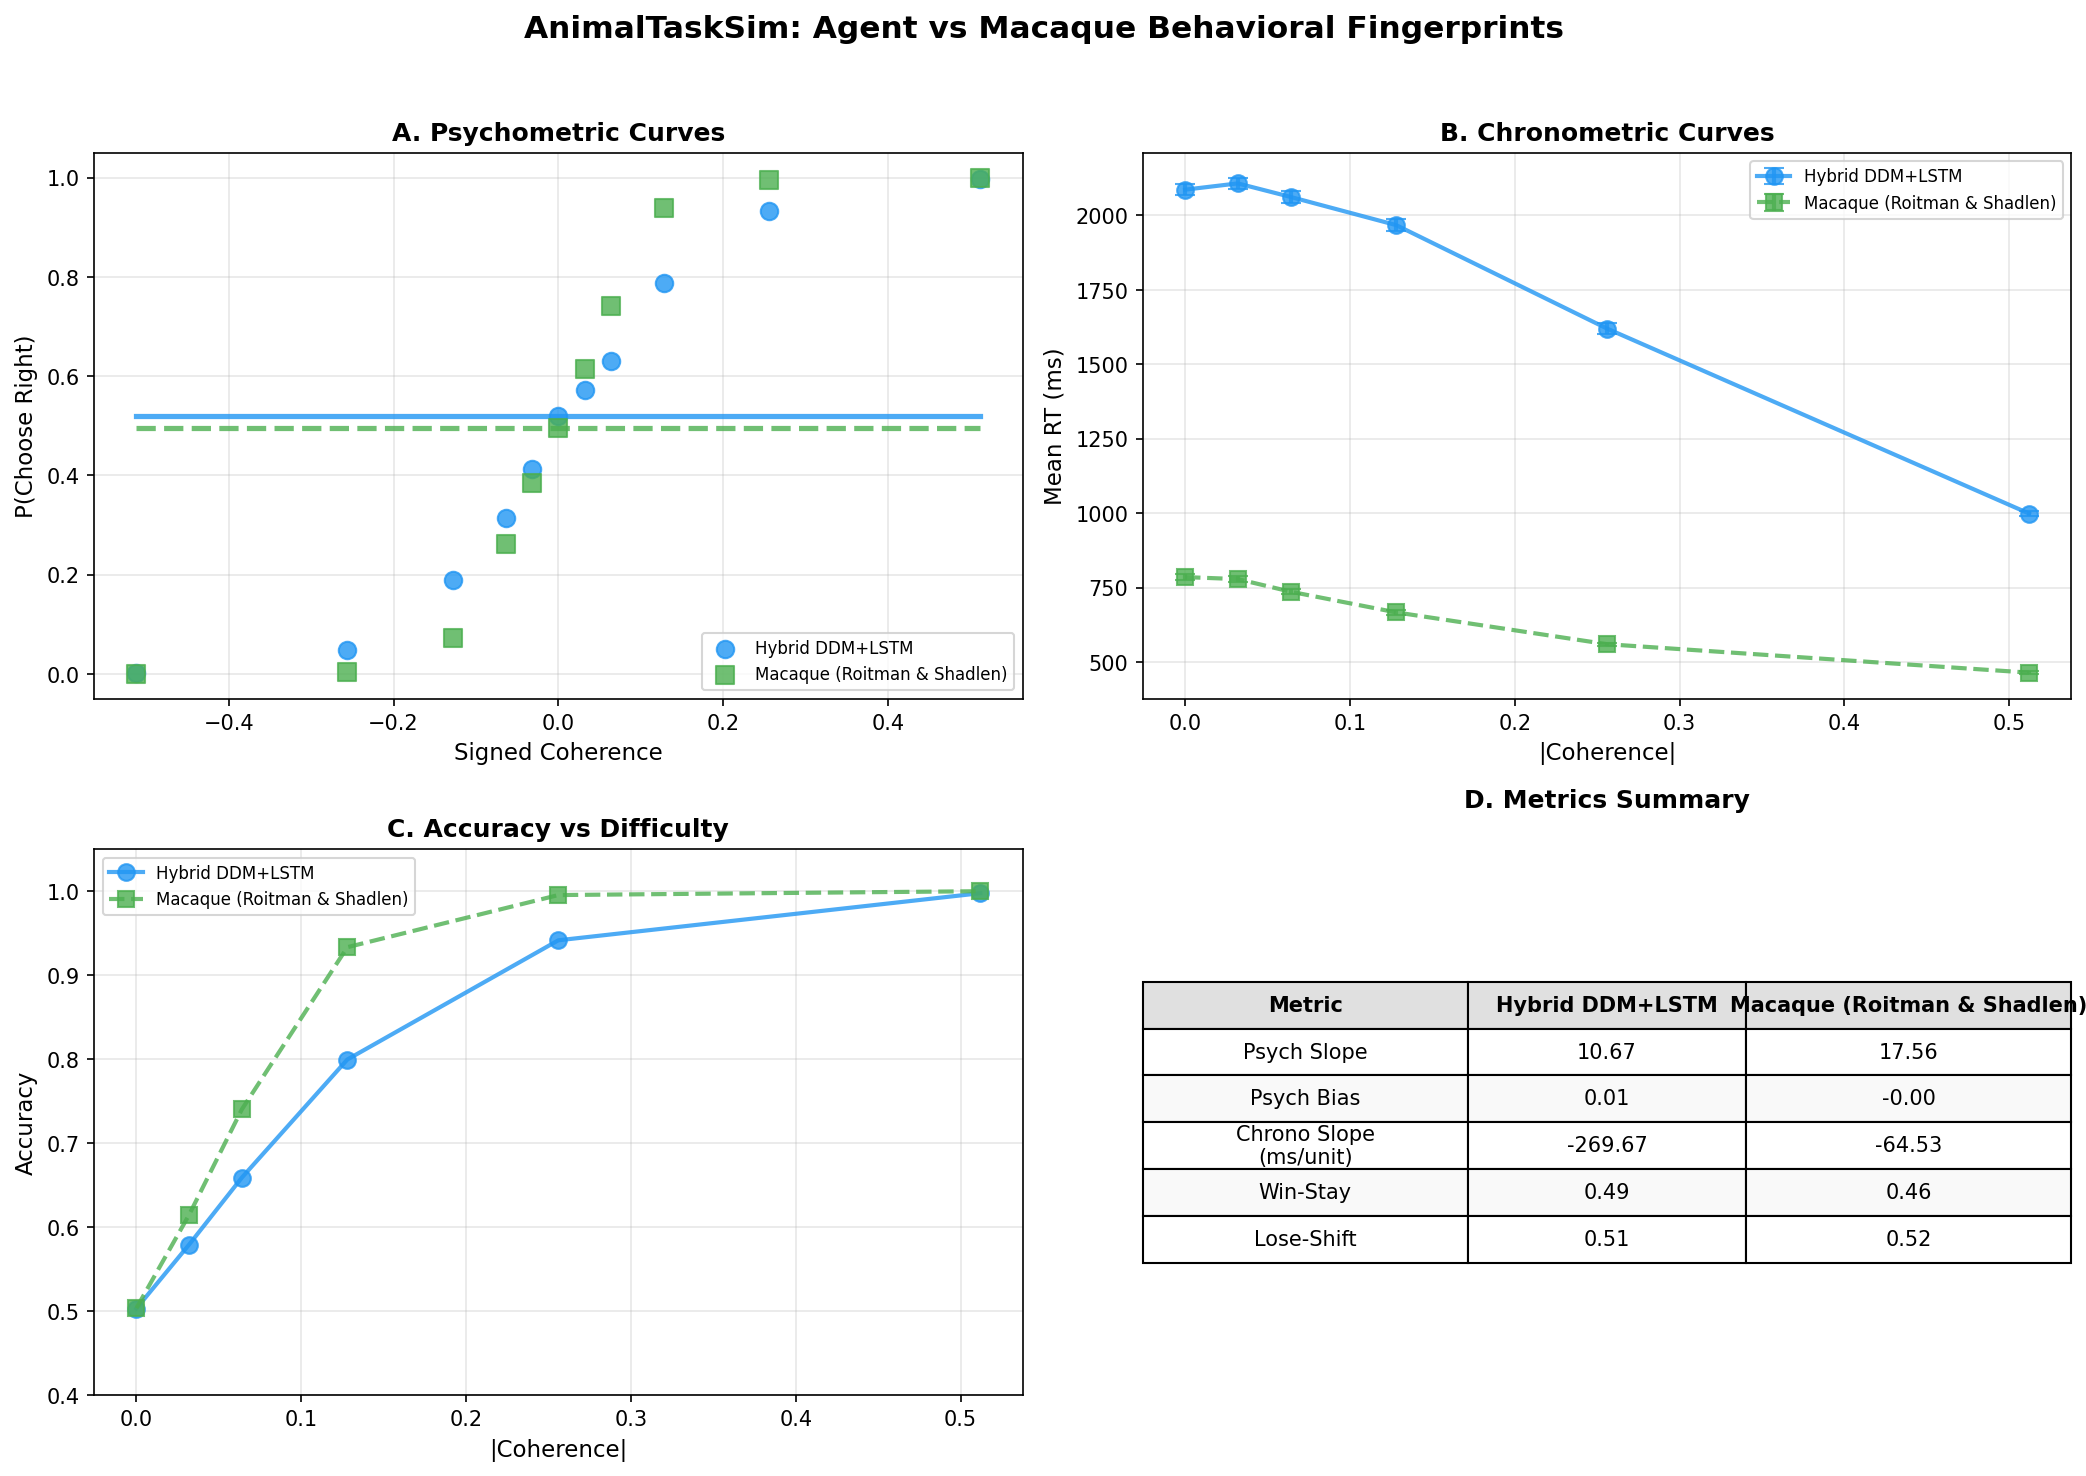
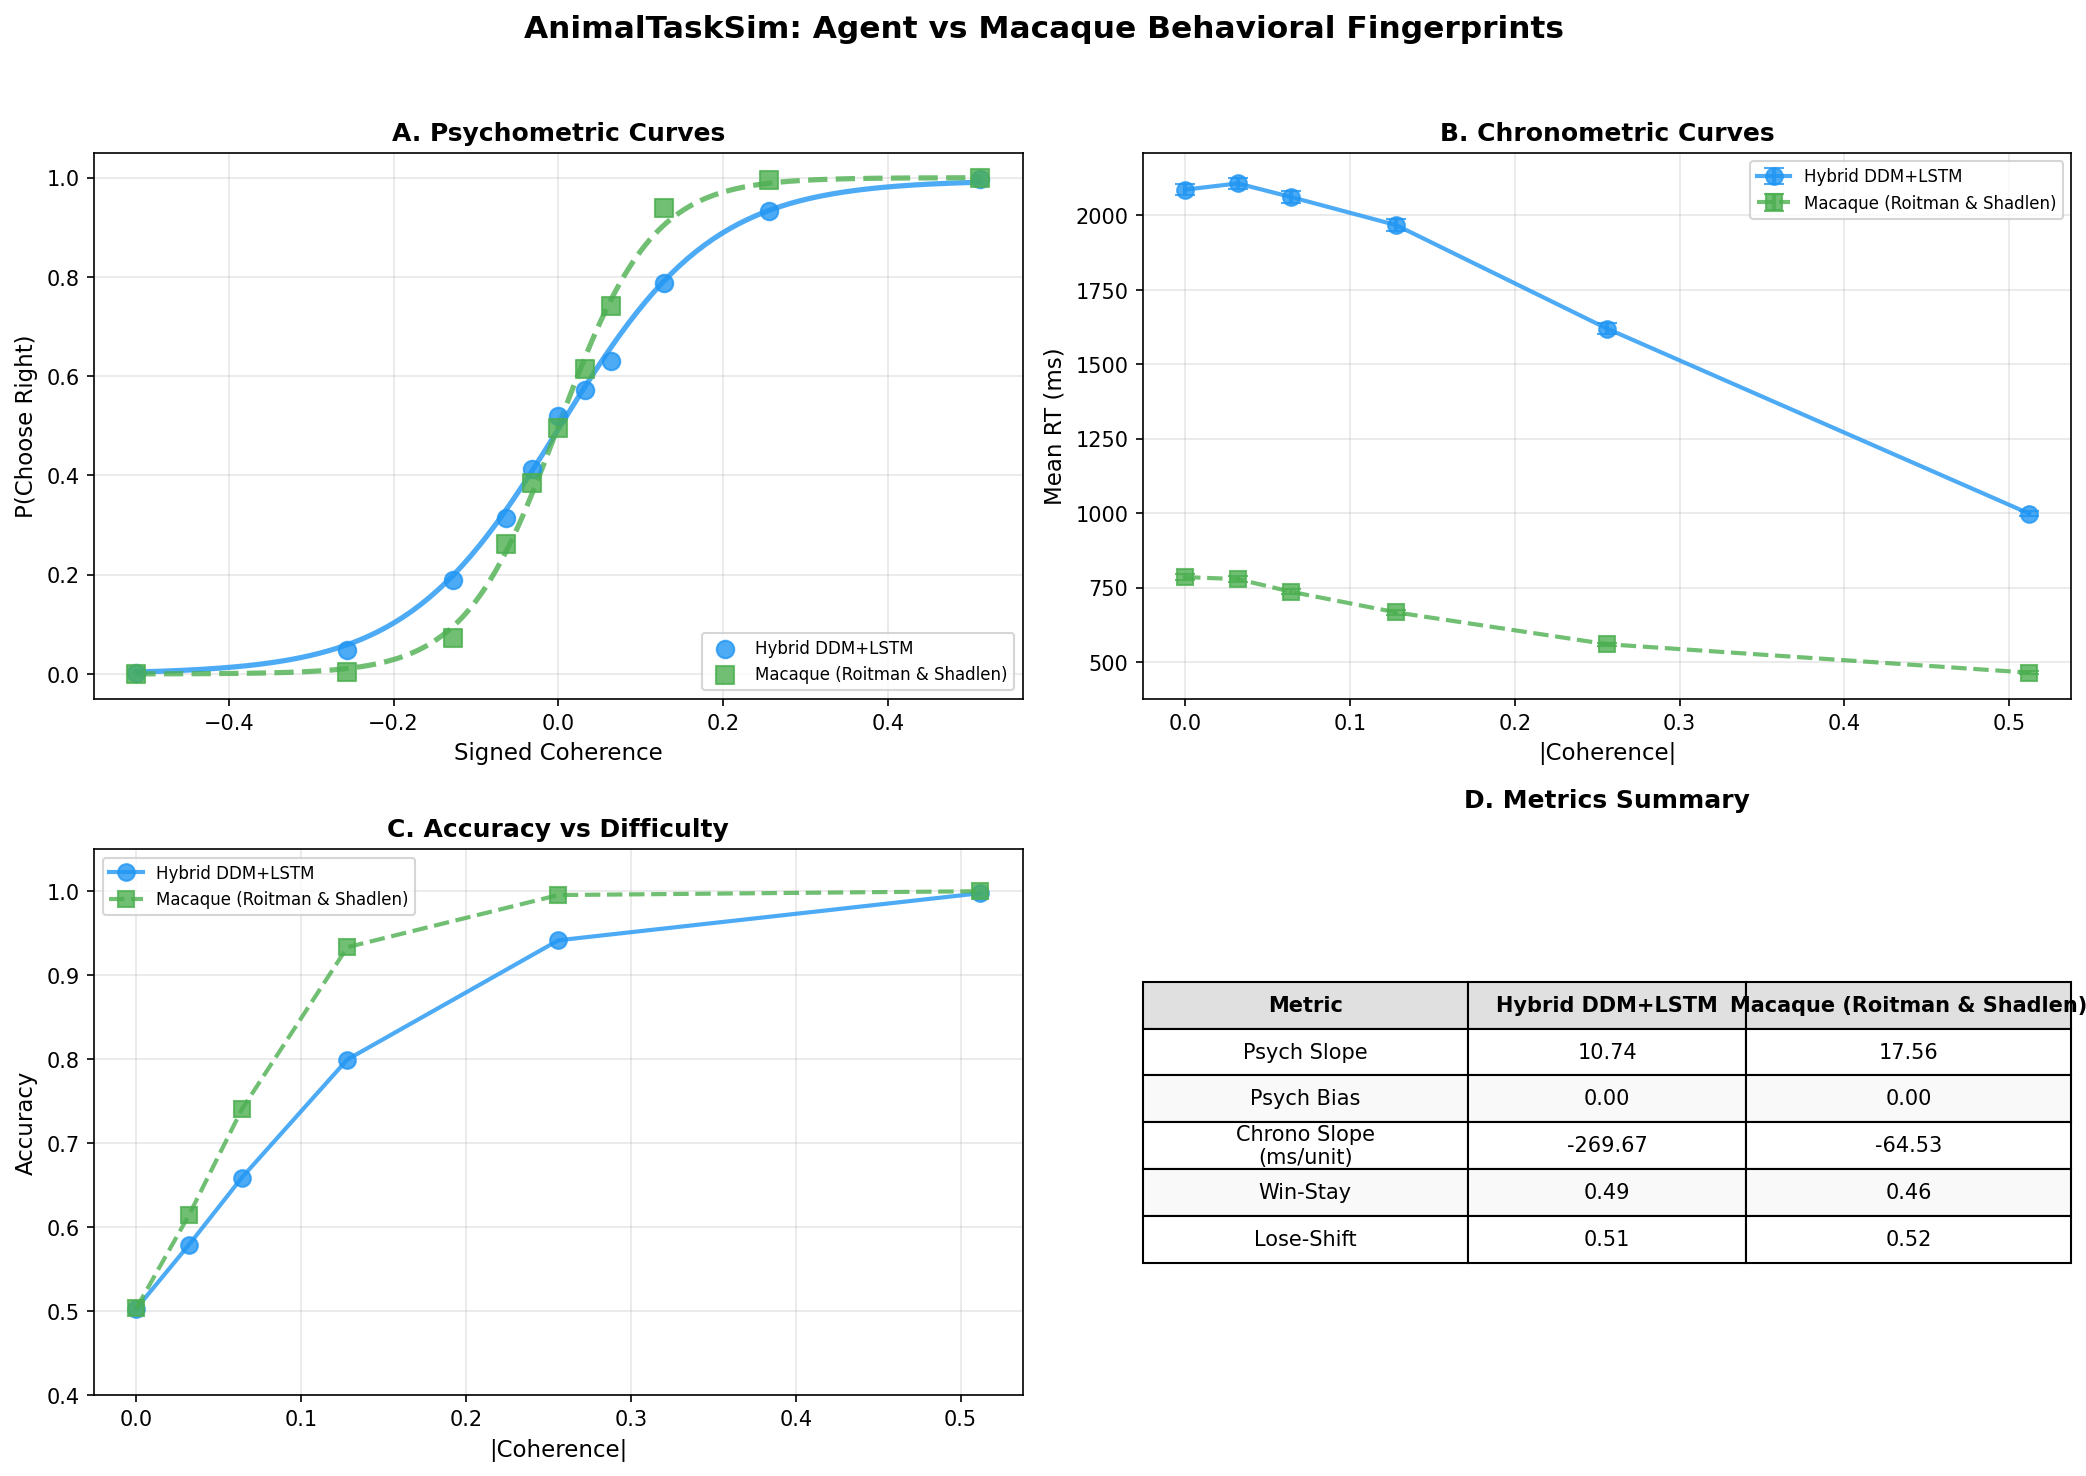
Fix psychometric fit: remove broken zero-coherence lapse override\n\nThe psychometric fitter overwrote fitted lapse parameters with\nzero-coherence p(right), setting lapse_low=0.52 / lapse_high=0.48\n(dynamic range = 0.00). This made the fitted curve flat despite\nexcellent raw discrimination (p_rig

diff --git a/eval/metrics.py b/eval/metrics.py
@@ -109,14 +109,9 @@ def compute_psychometric(df: pd.DataFrame, stimulus_key: str = "contrast") -> Ps
 
     filtered["choice_right"] = (filtered["action"] == "right").astype(float)
 
-    # Exclude zero-coherence trials from slope fitting
-    f_fit = filtered[filtered[f"stimulus_{stimulus_key}"] != 0]
-    if f_fit.empty:
-        return PsychometricMetrics(np.nan, np.nan, np.nan, np.nan)
-
-    df_for_fit = f_fit.copy()
+    # Use all stimulus levels (including zero) for the full sigmoid fit
+    df_for_fit = filtered.copy()
     df_for_fit["stimulus"] = df_for_fit[f"stimulus_{stimulus_key}"]
-    df_for_fit["choice_right"] = (df_for_fit["action"] == "right").astype(float)
     grouped = df_for_fit.groupby("stimulus")["choice_right"].agg(["mean", "count"]).reset_index()
 
     xdata = grouped["stimulus"].values.astype(float)
@@ -126,9 +121,15 @@ def compute_psychometric(df: pd.DataFrame, stimulus_key: str = "contrast") -> Ps
     if len(xdata) < 2 or np.allclose(xdata, xdata[0]):
         return PsychometricMetrics(np.nan, np.nan, np.nan, np.nan)
 
-    initial = np.array([0.0, 5.0, 0.02, 0.02], dtype=float)
+    # Estimate initial slope from data range for better convergence
+    y_range = ydata.max() - ydata.min()
+    x_range = xdata.max() - xdata.min()
+    slope_init = max(2.0, 4.0 * y_range / max(x_range, 1e-6))
+    lapse_init = max(0.001, min(0.15, ydata.min()))
+
+    initial = np.array([0.0, slope_init, lapse_init, lapse_init], dtype=float)
     lower_bounds = np.array([-np.inf, 0.01, 0.0, 0.0], dtype=float)
-    upper_bounds = np.array([np.inf, 50.0, 0.49, 0.49], dtype=float)
+    upper_bounds = np.array([np.inf, 200.0, 0.5, 0.5], dtype=float)
     weight_scale = np.sqrt(np.clip(weights, 1.0, None))
 
     def _residuals(params: np.ndarray) -> np.ndarray:
@@ -148,17 +149,10 @@ def compute_psychometric(df: pd.DataFrame, stimulus_key: str = "contrast") -> Ps
     if result is None or not result.success:
         bias = float(np.interp(0.5, ydata, xdata)) if np.isfinite(ydata).all() else np.nan
         slope = np.nan
-        lapse_low = float(max(0.0, 1.0 - ydata.max()))
-        lapse_high = float(max(0.0, ydata.min()))
+        lapse_low = float(max(0.0, ydata.min()))
+        lapse_high = float(max(0.0, 1.0 - ydata.max()))
     else:
         bias, slope, lapse_low, lapse_high = result.x
-
-    # Lapse from zero-coh only:
-    zero = filtered[filtered[f"stimulus_{stimulus_key}"] == 0]
-    lapse = float(zero["choice_right"].mean()) if not zero.empty else np.nan
-    if not np.isnan(lapse):
-        lapse_low = lapse
-        lapse_high = 1 - lapse
 
     return PsychometricMetrics(float(slope), float(bias), float(lapse_low), float(lapse_high))
 

diff --git a/README.md b/README.md
@@ -14,9 +14,9 @@ AnimalTaskSim benchmarks AI agents on classic animal decision-making tasks using
 </p>
 
 Our Hybrid DDM+LSTM agent trained on the macaque RDM task simultaneously reproduces:
+- **Psychometric sensitivity** — sigmoidal choice curve with slope 10.7, near-zero lapses (macaque: 17.6)
 - **Negative chronometric slope** — harder stimuli → slower RTs, slope −270 ms/unit (macaque: −645)
-- **Near-zero choice bias** — p(right) = 0.496 among committed trials (macaque: ≈0.50)
-- **Psychometric slope** — 10.7 (macaque: 17.6), though high lapse rates (~50%) compress the visible curve
+- **Near-zero choice bias** — p(right) = 0.496, bias = 0.002 (macaque: ≈0)
 - **History effects remain at chance** (~0.50) — an open research problem we call the [Decoupling Problem](FINDINGS.md#the-decoupling-problem)
 
 > *Figure generated from `runs/decoupling_K2_window_control/`. Regenerate with `python scripts/generate_readme_figures.py`.*
@@ -49,7 +49,7 @@ The K2 experiment achieved the first simultaneous replication of both psychometr
 
 1. **Bias Artifact Resolution**: The reported 84% "leftward bias" was a metric artifact — `p_right_overall` counted holds (66% of trials) as non-right, inflating the apparent bias. The true committed `p_right = 0.48` was balanced all along.
 2. **Response Window Fix**: The agent's `max_commit_steps=200` exceeded the environment's 120-step response phase, causing most DDM commits to fall outside the valid window. After alignment (`response_duration_override` + 300-step window), commit rate reached 100%.
-3. **Results** (`runs/decoupling_K2_window_control/`): Psych slope=10.7, chrono slope=−270 ms/unit, bias=0.007, commit rate=100%. See figure above.
+3. **Results** (`runs/decoupling_K2_window_control/`): Psych slope=10.7 (lapses ≈0), chrono slope=−270 ms/unit, bias=0.002, commit rate=100%. See figure above.
 
 ### October 12, 2025 - Hybrid DDM+LSTM Agent Achieves Animal-like Chronometric Slope
 
